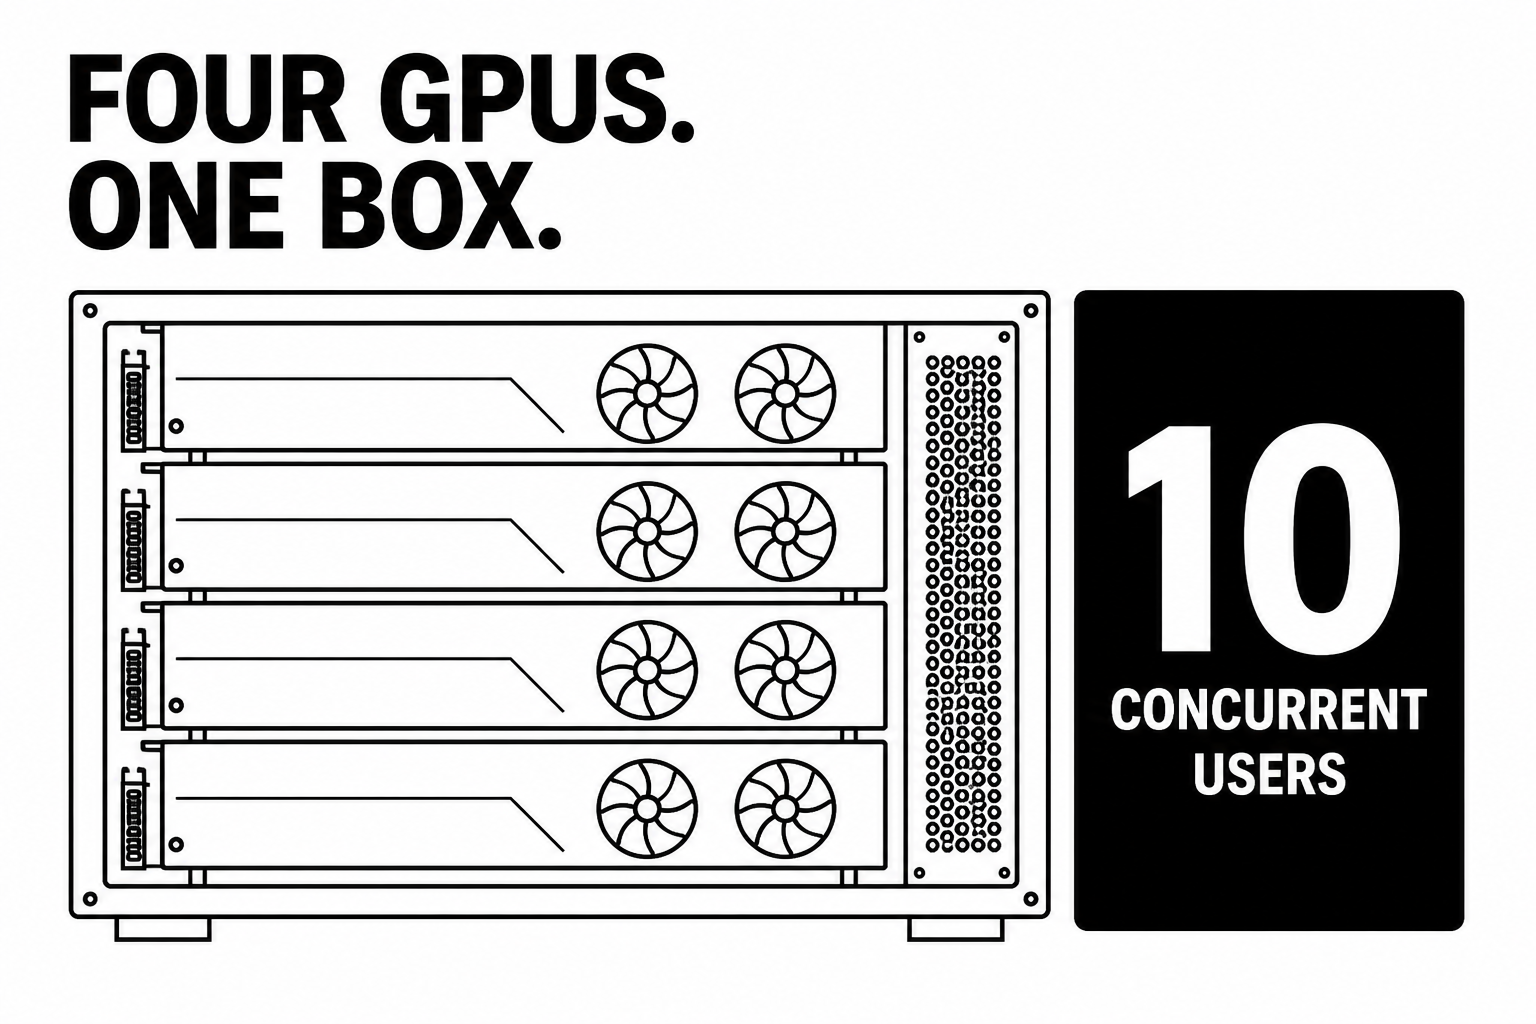
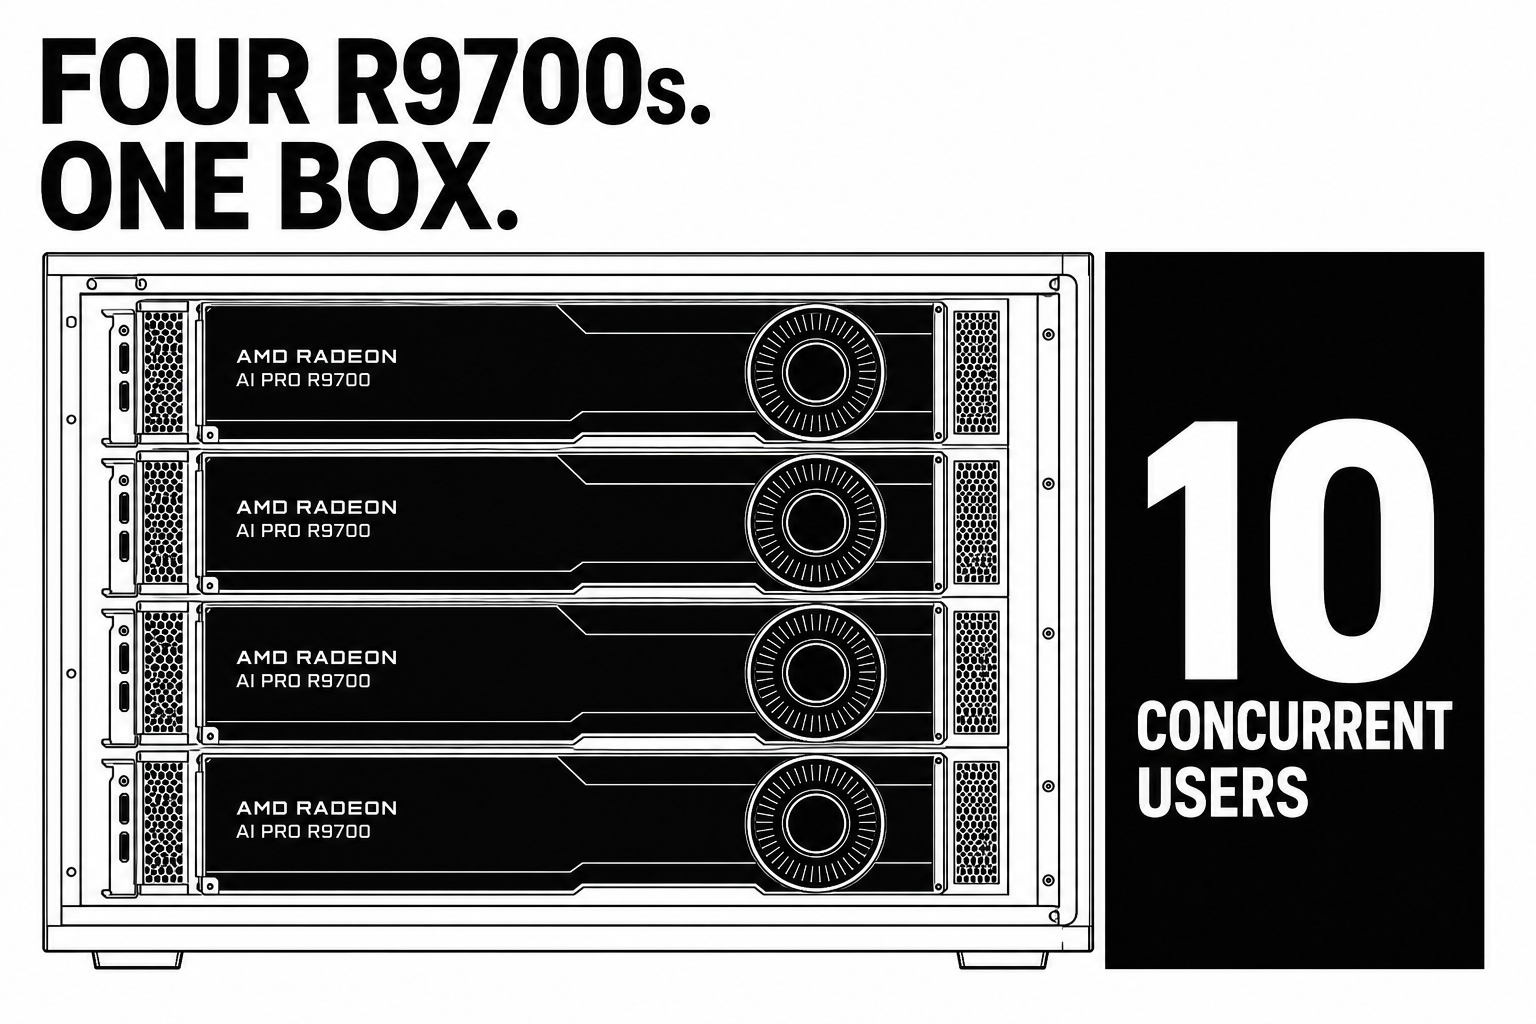
Draw four Radeon AI PRO R9700 cards

diff --git a/app/globals.css b/app/globals.css
@@ -158,36 +158,117 @@ h1 {
   position: relative;
   min-height: 94px;
   display: grid;
-  grid-template-columns: 118px 1fr 85px 42px;
+  grid-template-columns: 30px minmax(175px, 0.8fr) minmax(80px, 1fr) 122px 66px;
   align-items: center;
-  gap: 18px;
-  padding: 10px 16px;
+  gap: clamp(10px, 1.8vw, 24px);
+  padding: 8px 14px 8px 0;
   overflow: hidden;
   border: 1px solid var(--black);
+  background: var(--black);
+  color: var(--white);
+}
+
+.gpu::after {
+  content: "";
+  position: absolute;
+  top: 0;
+  right: 175px;
+  width: 96px;
+  height: 1px;
+  background: rgba(255, 255, 255, 0.55);
+  transform: rotate(-23deg);
+  transform-origin: right center;
+}
+
+.io-bracket {
+  align-self: stretch;
+  display: grid;
+  grid-template-rows: repeat(4, 1fr);
+  gap: 4px;
+  padding: 7px 6px;
+  background: var(--white);
+  border-right: 1px solid var(--white);
+}
+
+.io-bracket i {
+  display: block;
+  border: 1px solid var(--black);
+  background: repeating-linear-gradient(90deg, transparent 0 3px, var(--black) 3px 4px);
 }
 
 .gpu-label strong,
-.gpu-label span {
+.gpu-label span,
+.gpu-label small {
   display: block;
 }
 
 .gpu-label strong {
-  font: 11px var(--mono);
-  letter-spacing: 0.08em;
+  margin-top: 4px;
+  font-size: clamp(15px, 1.65vw, 24px);
+  line-height: 0.95;
+  letter-spacing: -0.045em;
 }
 
 .gpu-label span {
-  margin-top: 8px;
-  color: var(--muted);
   font: 8px var(--mono);
-  letter-spacing: 0.1em;
+  letter-spacing: 0.14em;
   text-transform: uppercase;
 }
 
-.fans {
-  display: flex;
-  justify-content: center;
-  gap: clamp(24px, 5vw, 74px);
+.gpu-label small {
+  margin-top: 7px;
+  color: rgba(255, 255, 255, 0.55);
+  font: 7px var(--mono);
+  letter-spacing: 0.08em;
+  text-transform: uppercase;
+}
+
+.shroud {
+  height: 58px;
+  position: relative;
+  overflow: hidden;
+  border-top: 1px solid rgba(255, 255, 255, 0.35);
+  border-bottom: 1px solid rgba(255, 255, 255, 0.35);
+}
+
+.shroud::before,
+.shroud::after {
+  content: "";
+  position: absolute;
+  left: 10%;
+  width: 78%;
+  height: 1px;
+  background: rgba(255, 255, 255, 0.55);
+}
+
+.shroud::before {
+  top: 18px;
+  transform: rotate(7deg);
+}
+
+.shroud::after {
+  bottom: 18px;
+  transform: rotate(-7deg);
+}
+
+.shroud span {
+  position: absolute;
+  top: 50%;
+  width: 4px;
+  height: 4px;
+  border-radius: 50%;
+  background: var(--white);
+}
+
+.shroud span:nth-child(1) { left: 8%; }
+.shroud span:nth-child(2) { left: 48%; }
+.shroud span:nth-child(3) { right: 8%; }
+
+.cooler {
+  display: grid;
+  grid-template-columns: 74px 1fr;
+  align-items: center;
+  gap: 9px;
 }
 
 .fan {
@@ -197,35 +278,30 @@ h1 {
   border: 1px solid var(--black);
   border-radius: 50%;
   background:
-    radial-gradient(circle, var(--white) 0 12%, var(--black) 13% 16%, transparent 17%),
-    repeating-conic-gradient(from 6deg, var(--black) 0 9deg, transparent 10deg 36deg);
+    radial-gradient(circle, var(--black) 0 11%, var(--white) 12% 14%, transparent 15%),
+    repeating-conic-gradient(from 6deg, var(--white) 0 7deg, transparent 8deg 32deg);
+  box-shadow: 0 0 0 4px rgba(255, 255, 255, 0.14);
 }
 
 .fan::after {
   content: "";
   position: absolute;
   inset: 25%;
-  border: 1px solid var(--black);
+  border: 1px solid rgba(255, 255, 255, 0.55);
   border-radius: 50%;
 }
 
-.bus {
+.vent {
   height: 56px;
-  display: flex;
-  justify-content: space-between;
-  align-items: stretch;
-  padding: 5px;
-  border: 1px solid var(--black);
-}
-
-.bus span {
-  width: 2px;
-  background: var(--black);
+  border-left: 1px solid rgba(255, 255, 255, 0.4);
+  background: repeating-linear-gradient(90deg, transparent 0 4px, rgba(255, 255, 255, 0.65) 4px 5px);
 }
 
 .link {
   font: 9px var(--mono);
+  line-height: 1.5;
   text-align: right;
+  color: rgba(255, 255, 255, 0.7);
 }
 
 .chassis-foot {
@@ -328,11 +404,7 @@ h1 {
   }
 
   .gpu {
-    grid-template-columns: 94px 1fr 34px;
-  }
-
-  .bus {
-    display: none;
+    grid-template-columns: 26px minmax(140px, 0.9fr) minmax(60px, 1fr) 92px 54px;
   }
 
   .fan {
@@ -426,21 +498,35 @@ h1 {
 
   .gpu {
     min-height: 82px;
-    grid-template-columns: 65px 1fr 26px;
+    grid-template-columns: 20px minmax(116px, 1fr) 68px 36px;
     gap: 8px;
-    padding-inline: 9px;
+    padding-right: 8px;
   }
 
-  .gpu-label span {
+  .shroud,
+  .gpu-label small {
     display: none;
   }
 
-  .fans {
-    gap: 18px;
+  .io-bracket {
+    padding-inline: 4px;
+  }
+
+  .cooler {
+    grid-template-columns: 52px 1fr;
+    gap: 6px;
   }
 
   .fan {
     width: 50px;
+  }
+
+  .vent {
+    height: 46px;
+  }
+
+  .link {
+    font-size: 7px;
   }
 
   .chassis-head,

diff --git a/app/page.tsx b/app/page.tsx
@@ -1,10 +1,10 @@
 const gpus = ["01", "02", "03", "04"];
 
 const specs = [
-  ["4×", "GPUs"],
-  ["128 GB", "VRAM"],
-  ["GEN 5", "PCIe"],
-  ["3200 W", "Power"],
+  ["4×", "R9700"],
+  ["128 GB", "GDDR6"],
+  ["RDNA 4", "Architecture"],
+  ["1200 W", "GPU TBP"],
 ];
 
 export default function Home() {
@@ -19,11 +19,11 @@ export default function Home() {
 
       <section className="hero" id="top" aria-labelledby="hero-title">
         <div className="hero-copy">
-          <p className="kicker">4× GPU compute system</p>
-          <h1 id="hero-title">Four GPUs.<br />One box.</h1>
+          <p className="kicker">4× AMD Radeon AI PRO R9700</p>
+          <h1 id="hero-title">Four R9700s.<br />One box.</h1>
           <p className="intro-copy">
-            Parallel compute, reduced to the essentials. Four full-width
-            accelerators in one precise, serviceable chassis.
+            128 GB of combined GPU memory for local inference, development,
+            and ten simultaneous users—inside one precise workstation.
           </p>
         </div>
 
@@ -33,36 +33,36 @@ export default function Home() {
             aria-label="Computer chassis containing four graphics processors"
           >
             <div className="chassis-head">
-              <span>QC–04 / Compute chassis</span>
+              <span>QC–04 / Radeon AI workstation</span>
               <span className="status">Running</span>
             </div>
 
             <div className="gpu-stack" aria-label="Four installed GPUs">
               {gpus.map((gpu) => (
                 <article className="gpu" key={gpu} aria-label={`GPU ${gpu}`}>
+                  <div className="io-bracket" aria-hidden="true">
+                    <i /><i /><i /><i />
+                  </div>
                   <div className="gpu-label">
-                    <strong>GPU {gpu}</strong>
-                    <span>Accelerator</span>
+                    <span>AMD Radeon</span>
+                    <strong>AI PRO R9700</strong>
+                    <small>GPU {gpu} · 32 GB GDDR6</small>
                   </div>
-                  <div className="fans" aria-hidden="true">
+                  <div className="shroud" aria-hidden="true">
+                    <span /><span /><span />
+                  </div>
+                  <div className="cooler" aria-hidden="true">
                     <span className="fan" />
-                    <span className="fan" />
+                    <span className="vent" />
                   </div>
-                  <div className="bus" aria-hidden="true">
-                    <span />
-                    <span />
-                    <span />
-                    <span />
-                    <span />
-                  </div>
-                  <span className="link">×16</span>
+                  <span className="link">PCIe 5.0<br />×16</span>
                 </article>
               ))}
             </div>
 
             <div className="chassis-foot">
-              <span>Positive pressure cooling</span>
-              <span>3200 W</span>
+              <span>Four double-slot active cards</span>
+              <span>4 × 300 W TBP</span>
             </div>
           </section>
 

diff --git a/app/layout.tsx b/app/layout.tsx
@@ -2,9 +2,9 @@ import type { Metadata } from "next";
 import { headers } from "next/headers";
 import "./globals.css";
 
-const title = "QUAD//CORE — Four GPUs. One Box.";
+const title = "QUAD//CORE — Four Radeon AI PRO R9700s";
 const description =
-  "A minimal HTML and CSS four-GPU compute chassis designed for 10 concurrent users.";
+  "A minimal HTML and CSS workstation with four AMD Radeon AI PRO R9700 cards for 10 concurrent users.";
 
 export async function generateMetadata(): Promise<Metadata> {
   const requestHeaders = await headers();
@@ -29,7 +29,7 @@ export async function generateMetadata(): Promise<Metadata> {
           url: imageUrl,
           width: 1536,
           height: 1024,
-          alt: "Minimal black-and-white four-GPU chassis for 10 concurrent users",
+          alt: "Minimal black-and-white four-card AI workstation for 10 concurrent users",
         },
       ],
     },
